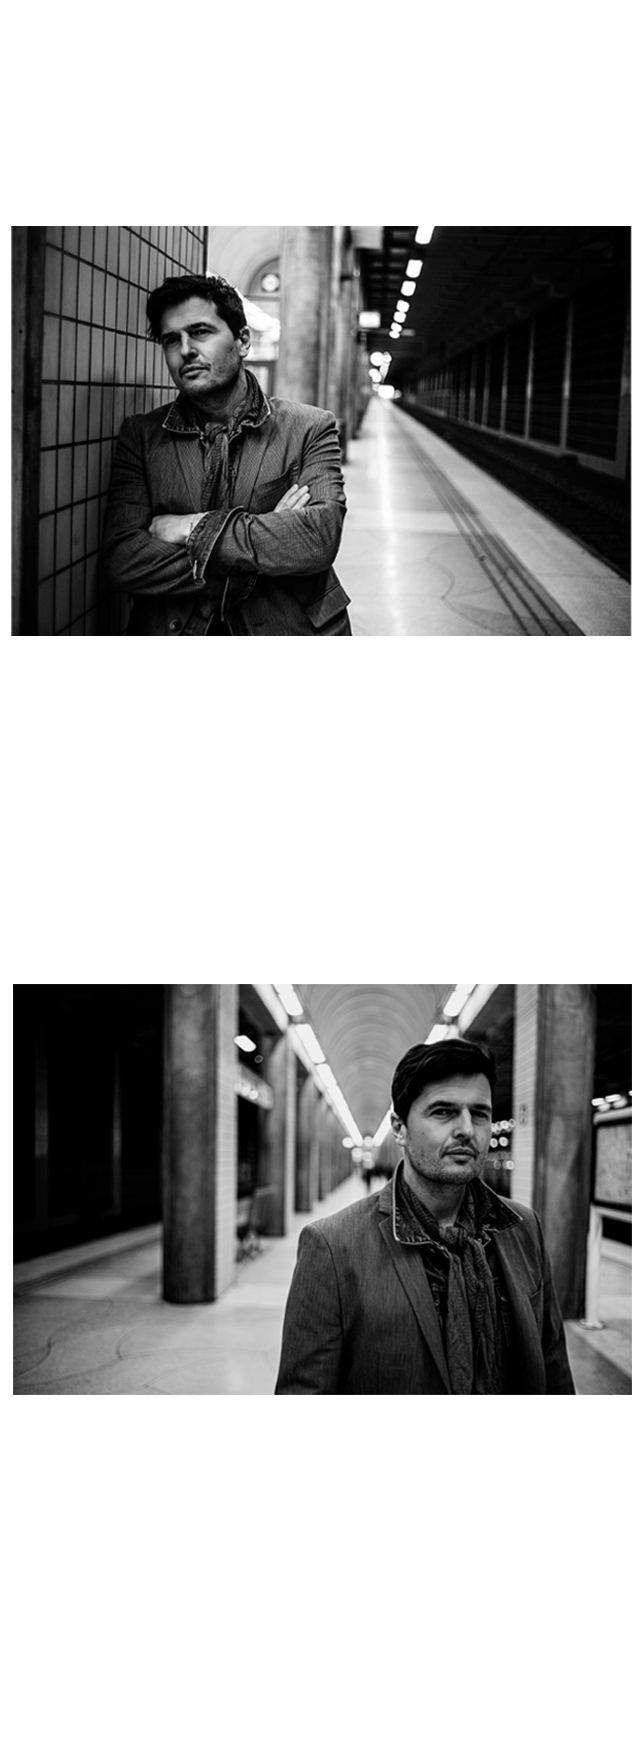
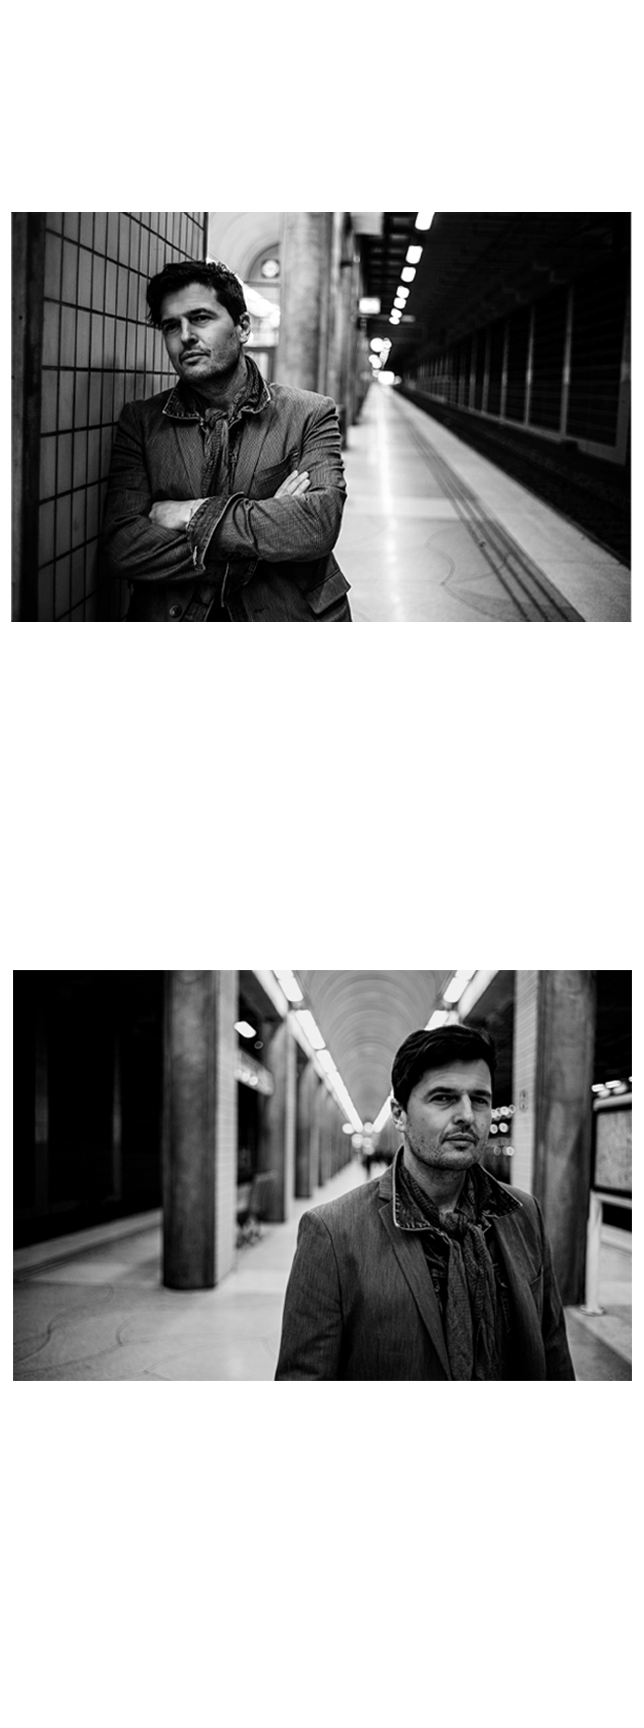
Add files via upload

diff --git a/sobre_mi.html b/sobre_mi.html
@@ -94,7 +94,7 @@ body {
         <tr>
           <p align="center">&nbsp;</p>
           <td><blockquote>
-            <p align="center" class="Estilo3"><img src="bio-2024-es.png" width="644" height="1742" /></p>
+            <p align="center" class="Estilo3"><img src="bio-2024-es.png" width="644" height="1728" /></p>
           </blockquote></td>
         </tr>
       </table>
